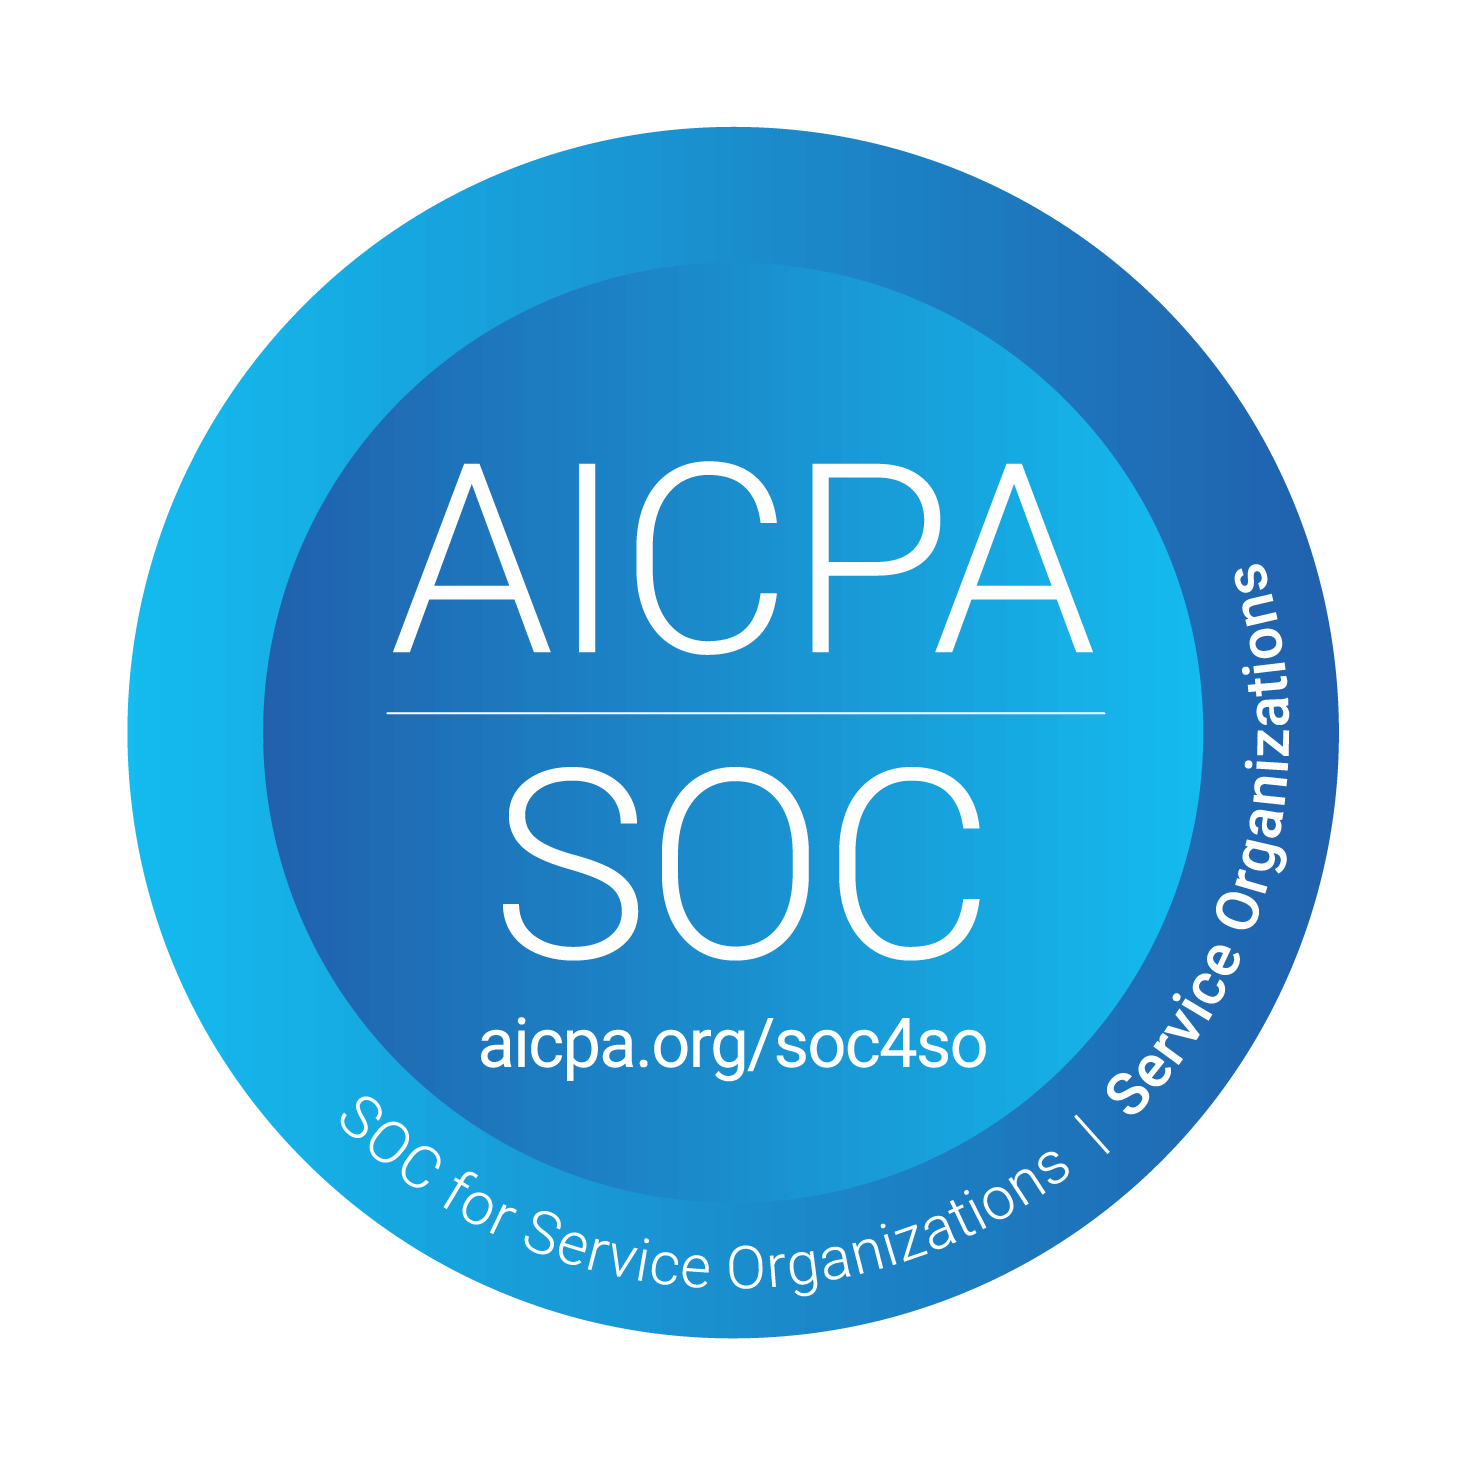
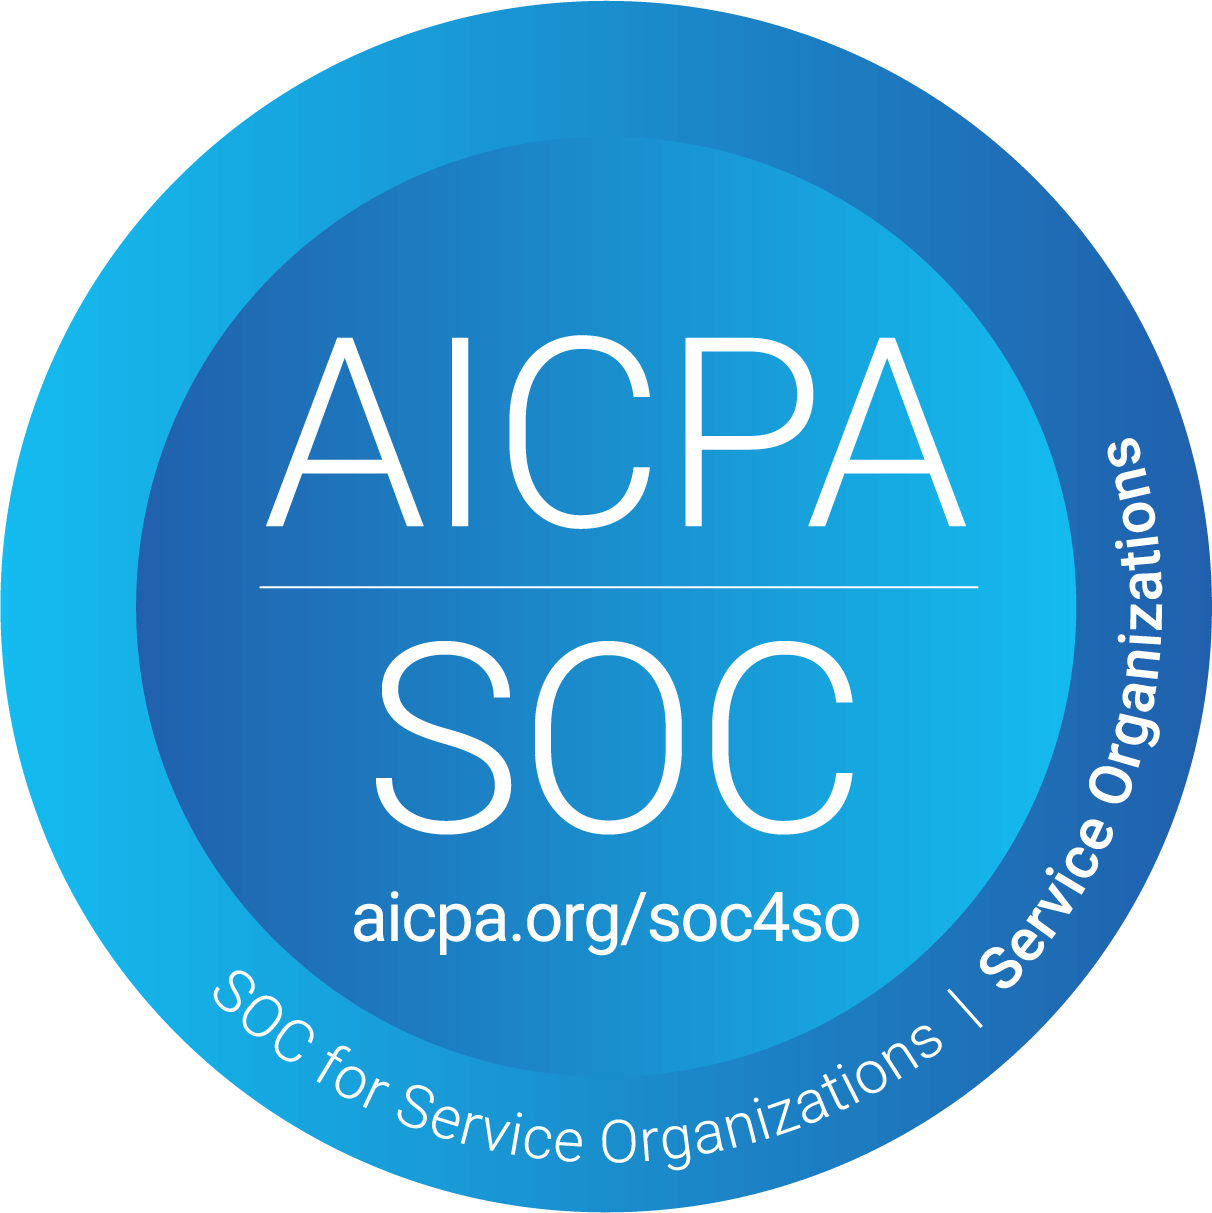
Footer: trim the SOC 2 Type II badge so it matches the others' size

diff --git a/src/components/layout/Footer.tsx b/src/components/layout/Footer.tsx
@@ -311,8 +311,8 @@ export function Footer() {
                 SOC 2 · Type I
               </span>
             </div>
-            {/* The SOC 2 Type II mark, shown exactly as supplied — whole,
-                not cropped, at the other badges' 88px. */}
+            {/* The SOC 2 Type II mark, trimmed to its circle (no TM), so at
+                the other badges' 88px it is the same size as them. */}
             <div className="flex flex-col items-center gap-2.5">
               <img
                 src="/Product/aicpa-soc.png"
